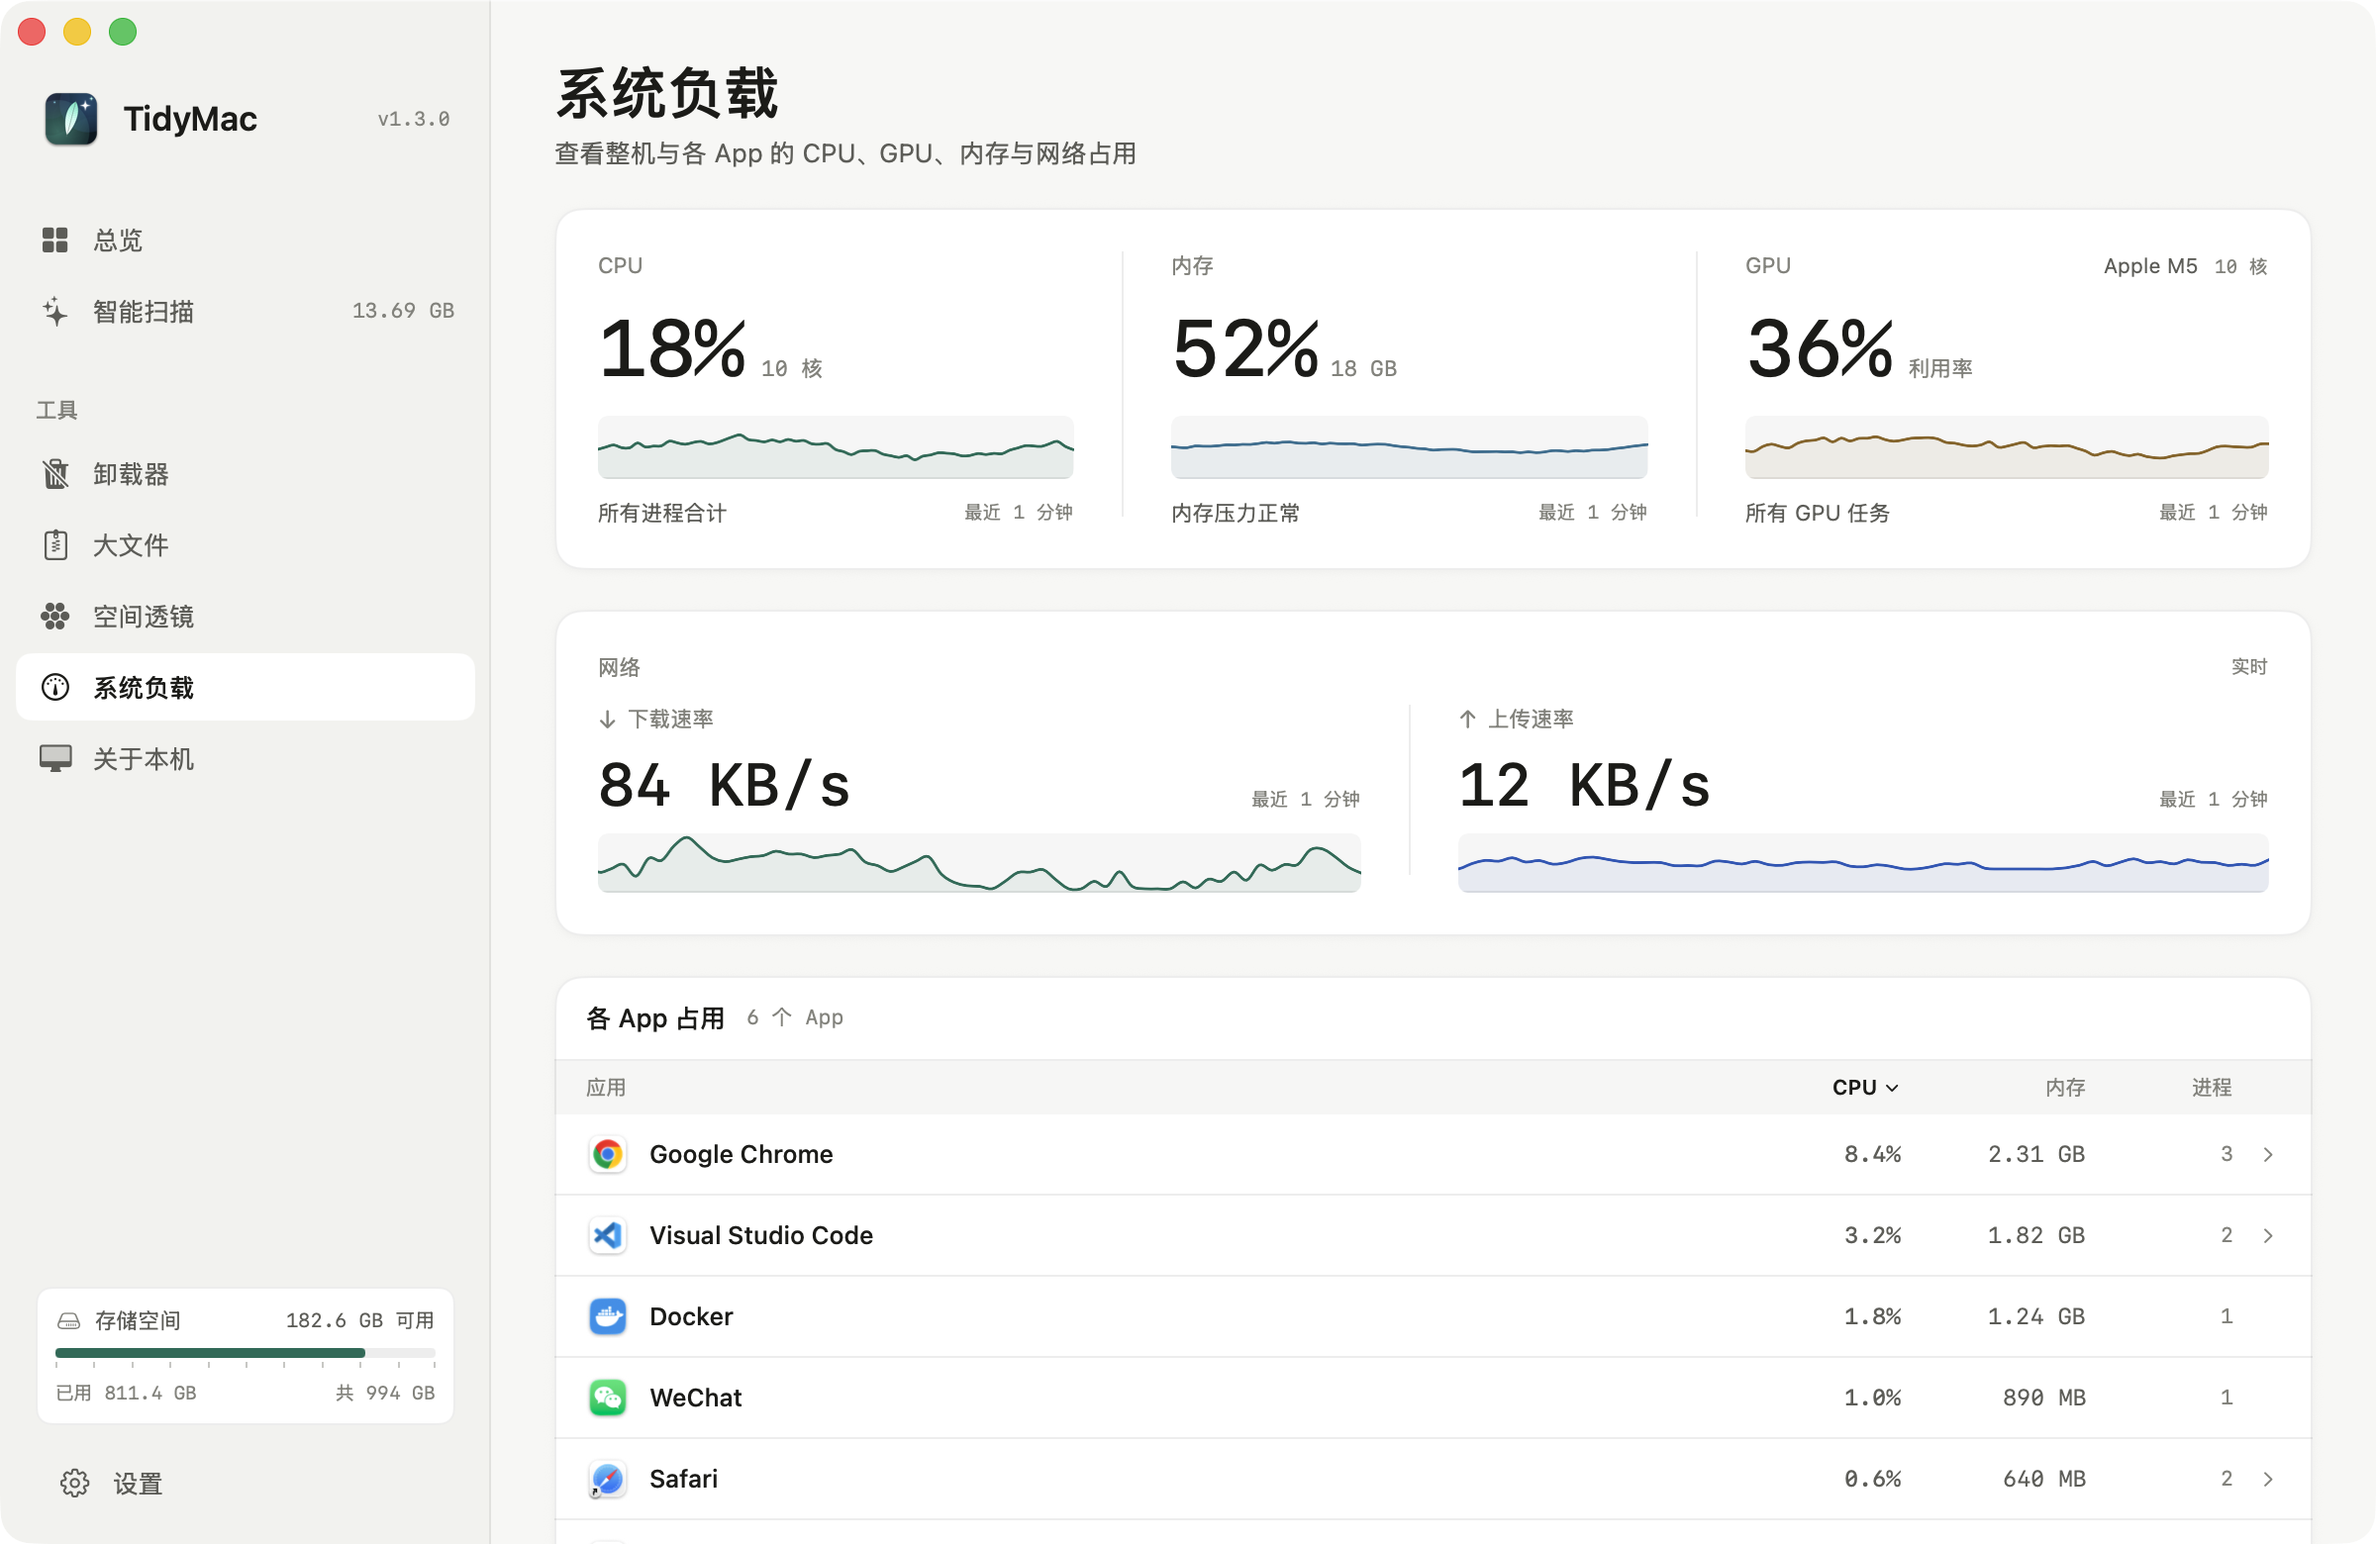
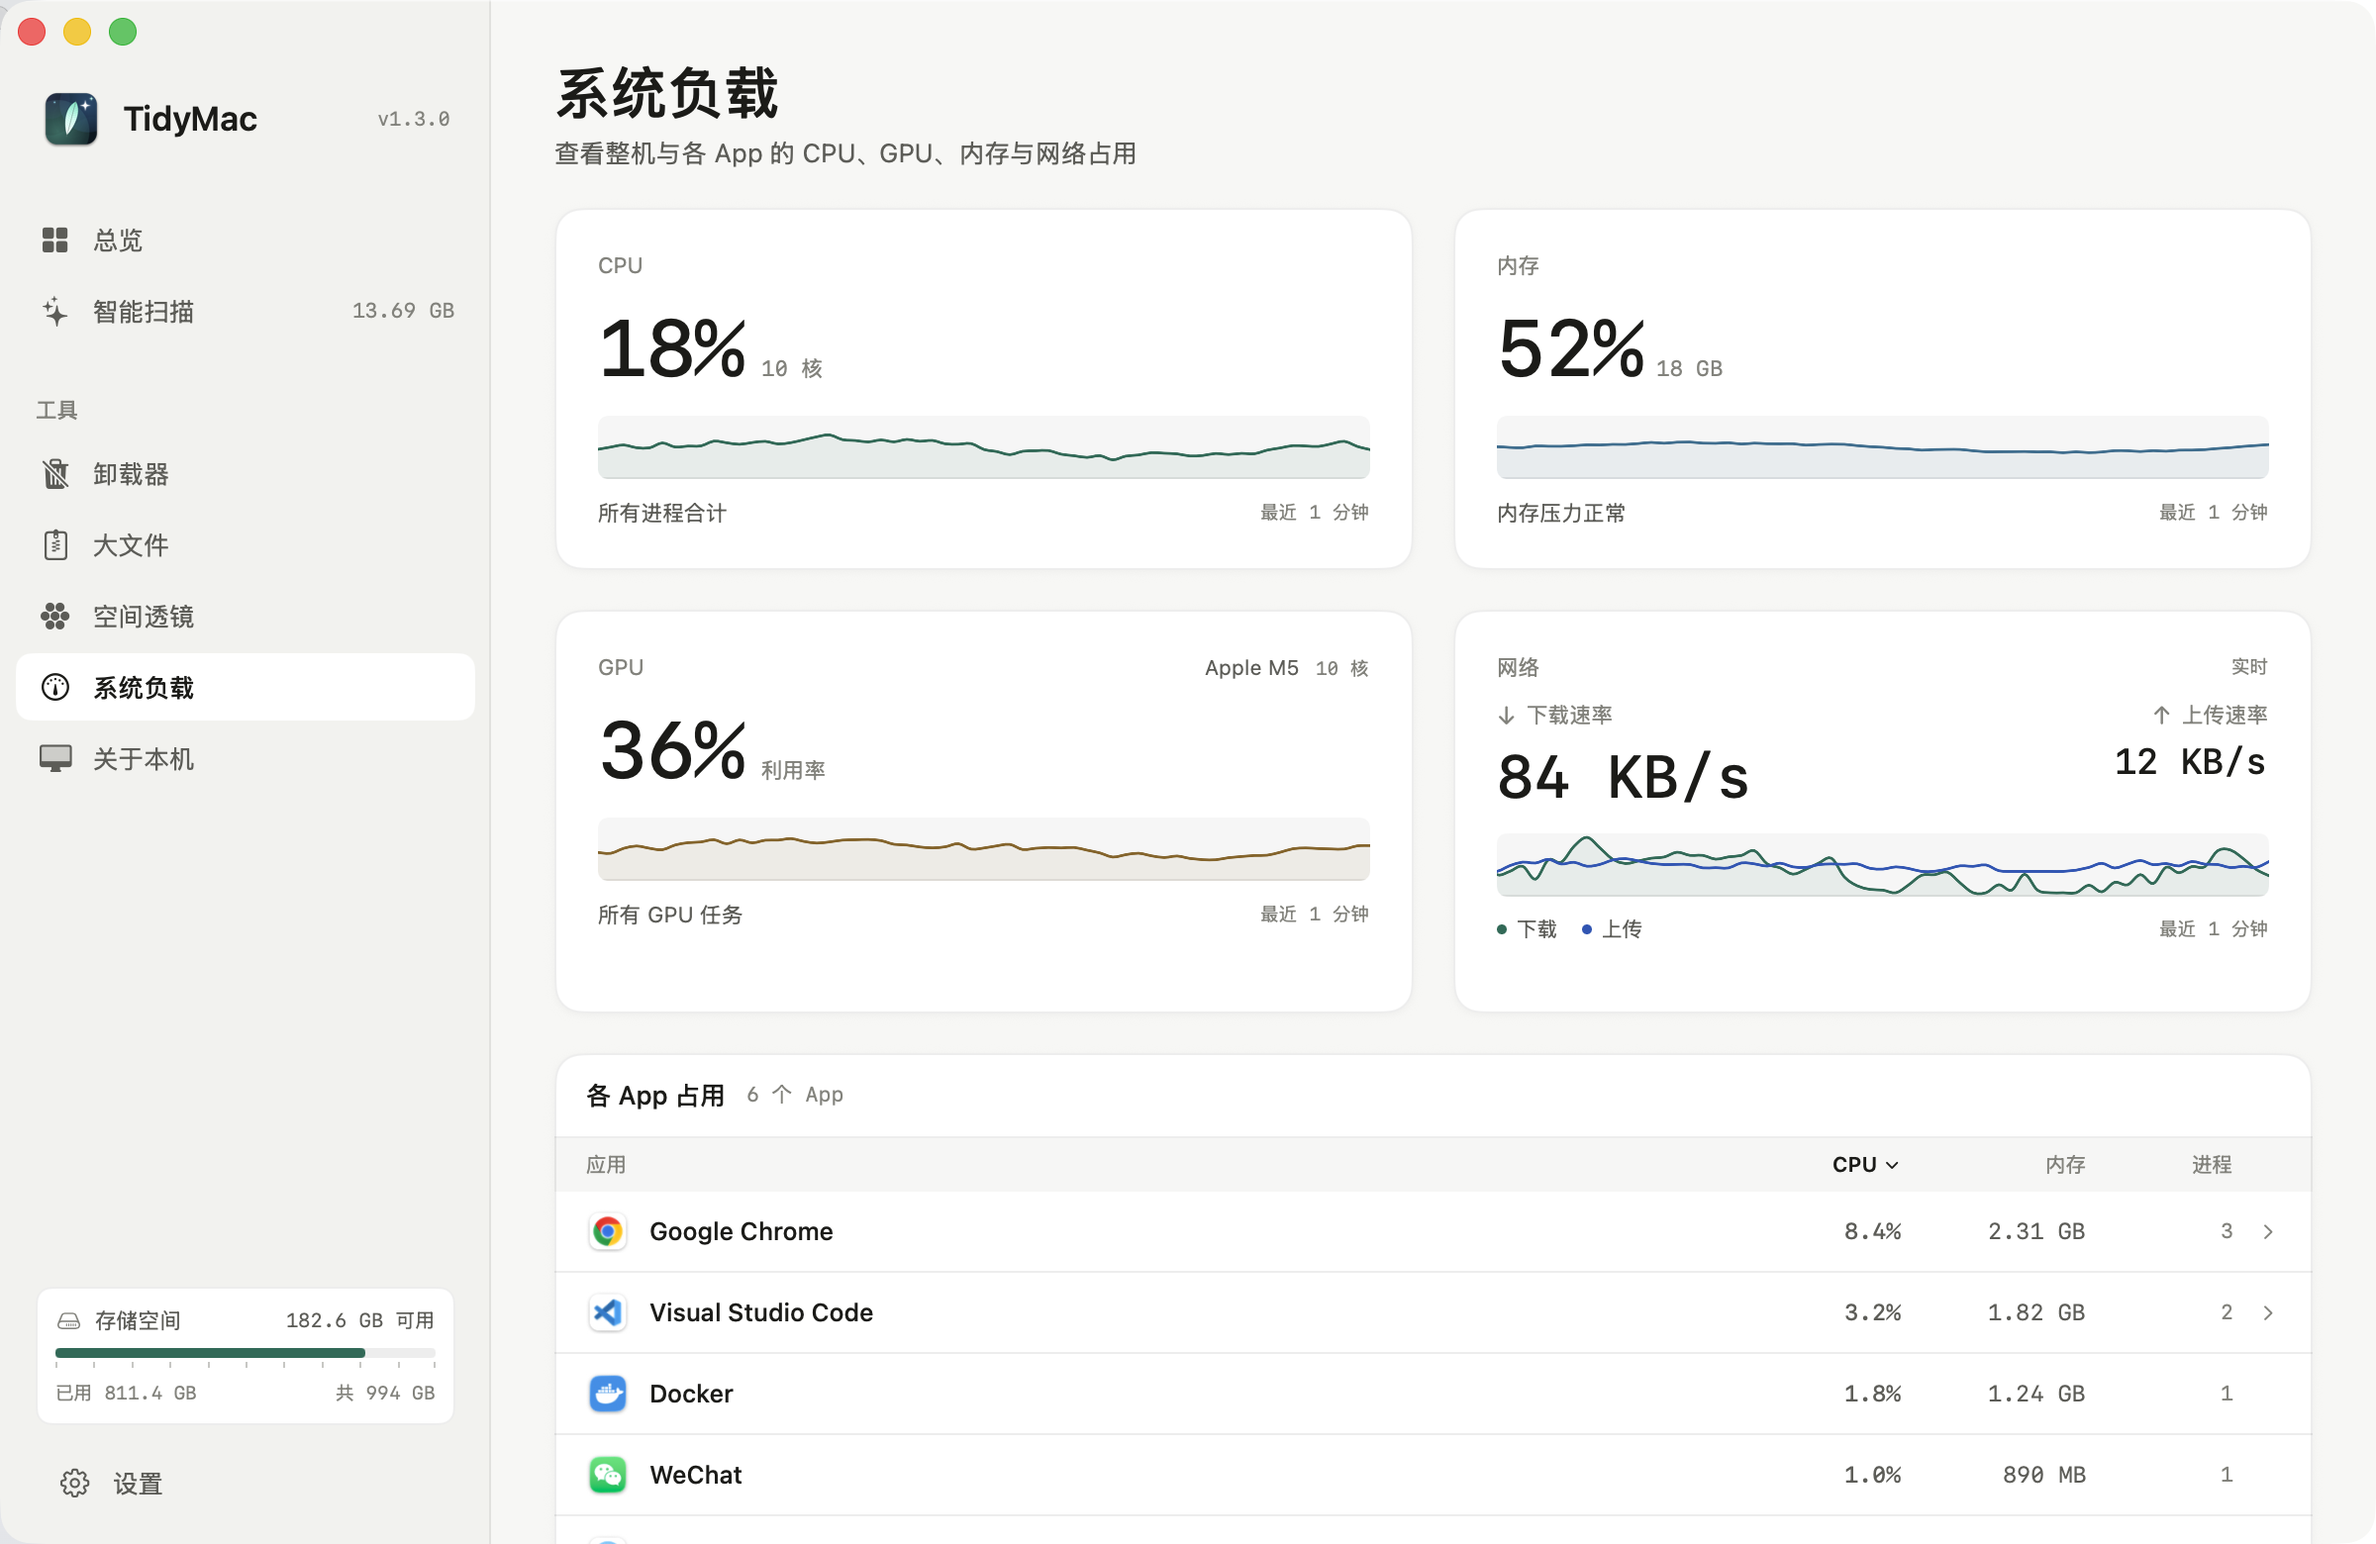
feat(ui): lay out System Load summary in two columns

diff --git a/Sources/UI/SystemLoadPage.swift b/Sources/UI/SystemLoadPage.swift
@@ -29,8 +29,7 @@ struct SystemLoadPage: View {
             VStack(alignment: .leading, spacing: 20) {
                 PageHeader(title: "系统负载", subtitle: L("查看整机与各 App 的 CPU、GPU、内存与网络占用"))
 
-                overallCard
-                networkCard
+                summaryGrid
                 appsCard
 
                 HStack(spacing: 6) {
@@ -66,36 +65,33 @@ struct SystemLoadPage: View {
         }
     }
 
-    // MARK: - Overall
+    // MARK: - Summary
 
-    private var overallCard: some View {
-        HStack(alignment: .top, spacing: 0) {
-            cpuColumn
-                .frame(maxWidth: .infinity, alignment: .leading)
-                .padding(.trailing, 24)
-
-            Rectangle()
-                .fill(Theme.stroke)
-                .frame(width: 1, height: 134)
-                .padding(.trailing, 24)
-
-            memoryColumn
-                .frame(maxWidth: .infinity, alignment: .leading)
-                .padding(.trailing, 24)
-
-            Rectangle()
-                .fill(Theme.stroke)
-                .frame(width: 1, height: 134)
-                .padding(.trailing, 24)
-
-            gpuColumn
-                .frame(maxWidth: .infinity, alignment: .leading)
+    private var summaryGrid: some View {
+        VStack(spacing: 20) {
+            HStack(alignment: .top, spacing: 20) {
+                metricCard { cpuColumn }
+                metricCard { memoryColumn }
+            }
+            HStack(alignment: .top, spacing: 20) {
+                metricCard(minHeight: 160) { gpuColumn }
+                metricCard(minHeight: 160) { networkSummaryCard }
+            }
         }
-        .qyPanel(padding: 22)
     }
 
-    private var networkCard: some View {
-        VStack(alignment: .leading, spacing: 12) {
+    private func metricCard<Content: View>(
+        minHeight: CGFloat = 0,
+        @ViewBuilder _ content: () -> Content
+    ) -> some View {
+        content()
+            .frame(maxWidth: .infinity, alignment: .topLeading)
+            .frame(height: minHeight > 0 ? minHeight : nil, alignment: .topLeading)
+            .qyPanel(padding: 22)
+    }
+
+    private var networkSummaryCard: some View {
+        VStack(alignment: .leading, spacing: 10) {
             HStack {
                 Text(L("网络"))
                     .font(.system(size: 11))
@@ -106,67 +102,88 @@ struct SystemLoadPage: View {
                     .foregroundStyle(Theme.textTertiary)
             }
 
-            HStack(alignment: .top, spacing: 0) {
-                networkColumn(
-                    title: L("下载速率"),
-                    symbol: "arrow.down",
-                    rate: monitor.snapshot?.network?.downloadBytesPerSecond,
-                    history: monitor.downloadHistory,
-                    color: Theme.accent
-                )
-                .frame(maxWidth: .infinity, alignment: .leading)
-                .padding(.trailing, 24)
+            HStack(alignment: .top, spacing: 16) {
+                VStack(alignment: .leading, spacing: 6) {
+                    HStack(spacing: 5) {
+                        Image(systemName: "arrow.down")
+                            .font(.system(size: 10, weight: .semibold))
+                        Text(L("下载速率"))
+                            .font(.system(size: 11))
+                    }
+                    .foregroundStyle(Theme.textTertiary)
 
+                    Text(networkRate(monitor.snapshot?.network?.downloadBytesPerSecond))
+                        .font(Theme.monoFont(30, weight: .medium))
+                        .foregroundStyle(Theme.textPrimary)
+                        .lineLimit(1)
+                        .minimumScaleFactor(0.7)
+                }
+
+                Spacer(minLength: 8)
+
+                VStack(alignment: .trailing, spacing: 6) {
+                    HStack(spacing: 5) {
+                        Image(systemName: "arrow.up")
+                            .font(.system(size: 10, weight: .semibold))
+                        Text(L("上传速率"))
+                            .font(.system(size: 11))
+                    }
+                    .foregroundStyle(Theme.textTertiary)
+
+                    Text(networkRate(monitor.snapshot?.network?.uploadBytesPerSecond))
+                        .font(Theme.monoFont(18, weight: .medium))
+                        .foregroundStyle(Theme.textPrimary)
+                        .lineLimit(1)
+                        .minimumScaleFactor(0.8)
+                }
+            }
+
+            ZStack {
+                RoundedRectangle(cornerRadius: 5)
+                    .fill(Theme.subtleFill)
+                TrendLayerView(
+                    values: monitor.downloadHistory,
+                    color: Theme.accent,
+                    minimumSpan: 128 * 1024,
+                    showsArea: true,
+                    drawsBackground: false
+                )
+                TrendLayerView(
+                    values: monitor.uploadHistory,
+                    color: Theme.chartNetworkUpload,
+                    minimumSpan: 128 * 1024,
+                    showsArea: false,
+                    drawsBackground: false
+                )
+            }
+            .overlay(alignment: .bottom) {
                 Rectangle()
                     .fill(Theme.stroke)
-                    .frame(width: 1, height: 86)
-                    .padding(.trailing, 24)
-
-                networkColumn(
-                    title: L("上传速率"),
-                    symbol: "arrow.up",
-                    rate: monitor.snapshot?.network?.uploadBytesPerSecond,
-                    history: monitor.uploadHistory,
-                    color: Theme.chartNetworkUpload
-                )
-                .frame(maxWidth: .infinity, alignment: .leading)
+                    .frame(height: 1)
             }
-        }
-        .qyPanel(padding: 22)
-    }
+            .clipShape(RoundedRectangle(cornerRadius: 5))
+            .frame(height: 32)
+            .padding(.top, 2)
 
-    private func networkColumn(
-        title: String,
-        symbol: String,
-        rate: Double?,
-        history: [Double],
-        color: Color
-    ) -> some View {
-        VStack(alignment: .leading, spacing: 8) {
-            HStack(spacing: 5) {
-                Image(systemName: symbol)
-                    .font(.system(size: 10, weight: .semibold))
-                Text(title)
-                    .font(.system(size: 11))
-            }
-            .foregroundStyle(Theme.textTertiary)
-
-            HStack(alignment: .firstTextBaseline, spacing: 6) {
-                Text(networkRate(rate))
-                    .font(Theme.monoFont(30, weight: .medium))
-                    .foregroundStyle(Theme.textPrimary)
-                Spacer(minLength: 0)
-                Text(trendWindowLabel(history.count))
+            HStack(spacing: 12) {
+                legend(color: Theme.accent, title: L("下载"))
+                legend(color: Theme.chartNetworkUpload, title: L("上传"))
+                Spacer(minLength: 8)
+                Text(trendWindowLabel(max(monitor.downloadHistory.count, monitor.uploadHistory.count)))
                     .font(Theme.monoFont(9.5))
                     .foregroundStyle(Theme.textTertiary)
             }
+        }
+    }
 
-            TrendLayerView(
-                values: history,
-                color: color,
-                minimumSpan: 128 * 1024
-            )
-            .frame(height: 30)
+    private func legend(color: Color, title: String) -> some View {
+        HStack(spacing: 5) {
+            Circle()
+                .fill(color)
+                .frame(width: 5, height: 5)
+            Text(title)
+                .font(.system(size: 10.5))
+                .foregroundStyle(Theme.textSecondary)
         }
     }
 
@@ -677,12 +694,19 @@ struct TrendLayerView: NSViewRepresentable {
     let color: Color
     var minimumSpan: Double = 0.06
     var interval: TimeInterval = 1
+    var showsArea: Bool = true
+    var drawsBackground: Bool = true
 
     func makeNSView(context: Context) -> TrendHostView {
-        TrendHostView()
+        let view = TrendHostView()
+        view.showsArea = showsArea
+        view.drawsBackground = drawsBackground
+        return view
     }
 
     func updateNSView(_ view: TrendHostView, context: Context) {
+        view.showsArea = showsArea
+        view.drawsBackground = drawsBackground
         view.apply(values: values, color: color, minimumSpan: minimumSpan, interval: interval)
     }
 }
